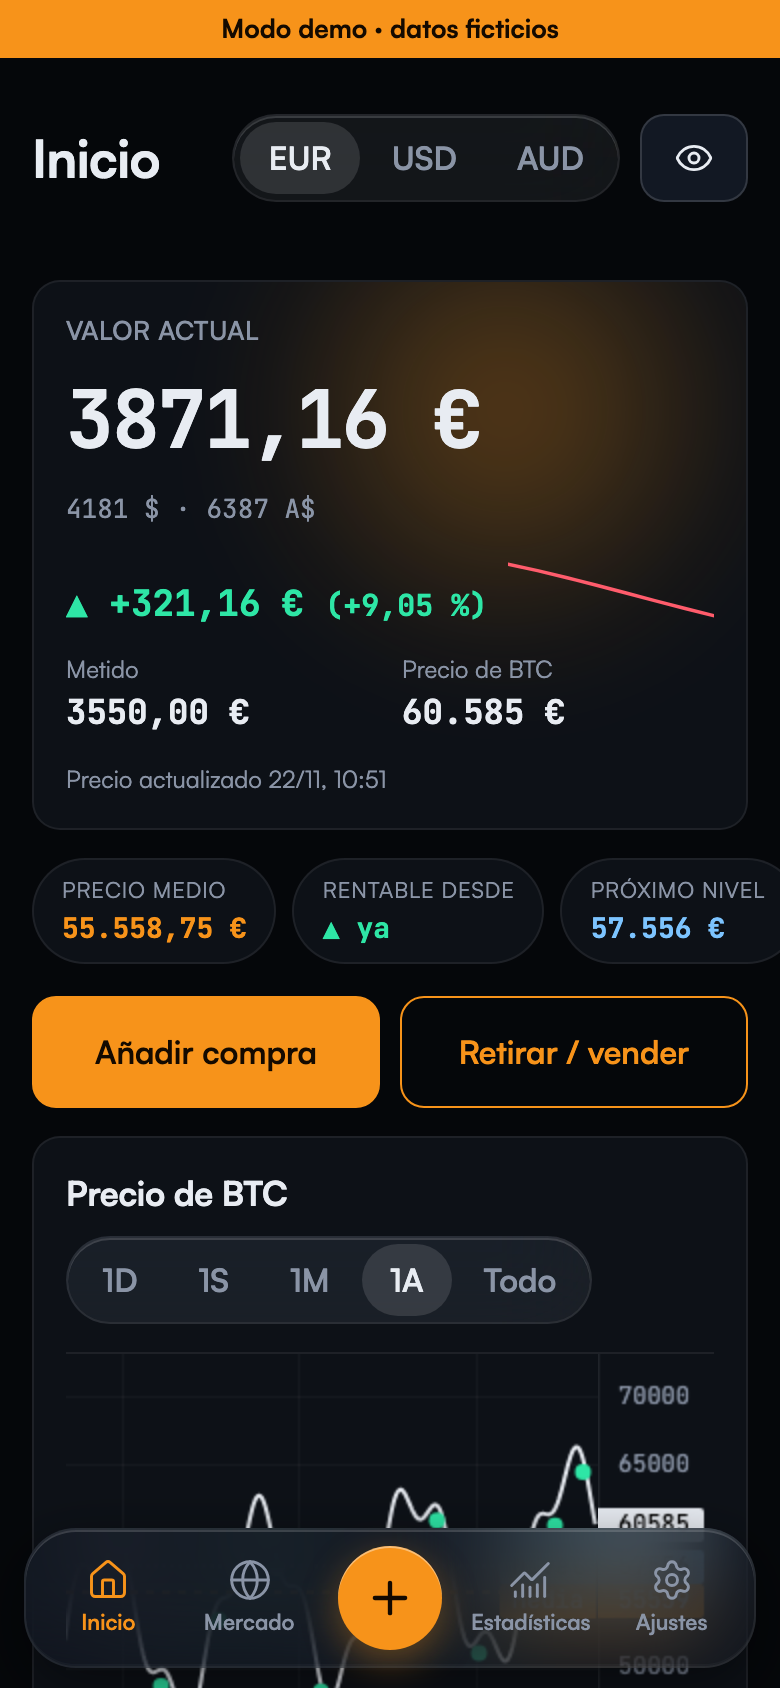
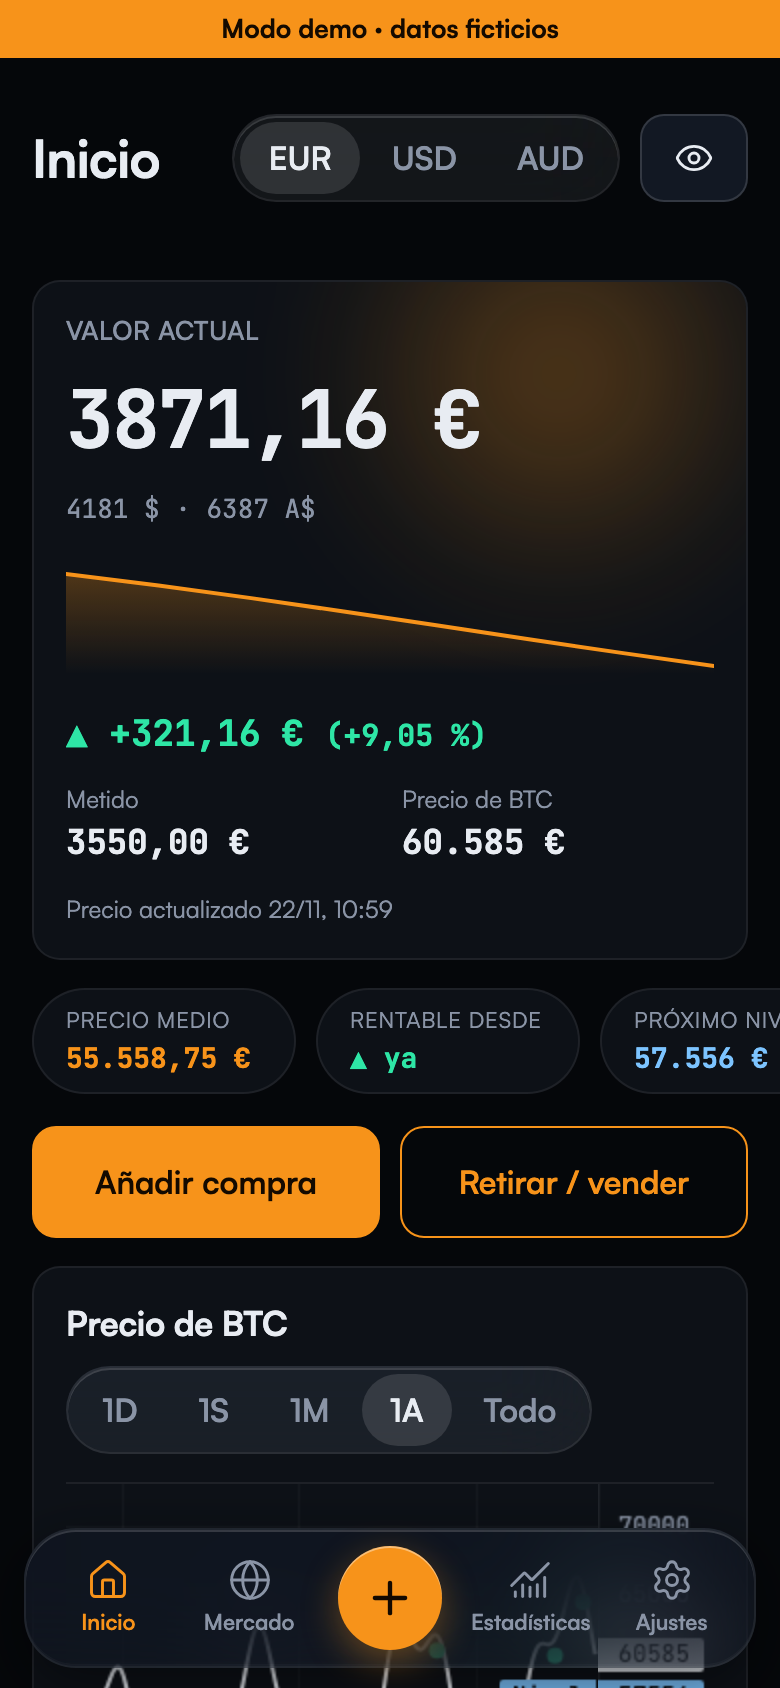
Inicio: mini gráfico a todo el ancho en naranja y chips deslizables con margen

diff --git a/src/components/Sparkline.tsx b/src/components/Sparkline.tsx
@@ -1,17 +1,41 @@
+import { useEffect, useId, useRef, useState } from 'react'
 import { motion, useReducedMotion } from 'motion/react'
 
-/** Mini gráfico del valor en los últimos días; la línea se dibuja al entrar. */
-export default function Sparkline({ valores, ancho = 120, alto = 36 }: { valores: number[]; ancho?: number; alto?: number }) {
+/** Mini gráfico del valor en los últimos días: ocupa todo el ancho, en naranja, y la línea se dibuja al entrar. */
+export default function Sparkline({ valores, alto = 56 }: { valores: number[]; alto?: number }) {
   const reducir = useReducedMotion()
+  const id = useId()
+  const caja = useRef<HTMLDivElement>(null)
+  const [W, setW] = useState(300)
+  // Se dibuja a tamaño real (sin estirar), para que el trazo no se deforme ni se corte.
+  useEffect(() => {
+    const el = caja.current
+    if (!el) return
+    const medir = () => setW(Math.max(100, Math.round(el.getBoundingClientRect().width)))
+    medir()
+    const ro = new ResizeObserver(medir)
+    ro.observe(el)
+    return () => ro.disconnect()
+  }, [])
   if (valores.length < 2) return null
   const min = Math.min(...valores), max = Math.max(...valores)
   const rango = max - min || 1
-  const pts = valores.map((v, i) => `${(i / (valores.length - 1)) * ancho},${alto - 3 - ((v - min) / rango) * (alto - 6)}`)
-  const sube = valores[valores.length - 1] >= valores[0]
+  const pts = valores.map((v, i): [number, number] => [(i / (valores.length - 1)) * W, alto - 4 - ((v - min) / rango) * (alto - 10)])
+  const linea = pts.map(([x, y]) => `${x},${y}`).join(' ')
+  const area = `M0,${alto} L${pts.map(([x, y]) => `${x},${y}`).join(' L')} L${W},${alto} Z`
   return (
-    <svg width={ancho} height={alto} viewBox={`0 0 ${ancho} ${alto}`} role="img" aria-label="Valor de la cartera en los últimos 7 días">
-      <motion.polyline points={pts.join(' ')} fill="none" stroke={sube ? '#2EE6A6' : '#FF5C6C'} strokeWidth="2" strokeLinecap="round" strokeLinejoin="round"
-        initial={{ pathLength: reducir ? 1 : 0 }} animate={{ pathLength: 1 }} transition={{ duration: 0.9, ease: 'easeOut' }} />
-    </svg>
+    <div ref={caja} style={{ width: '100%' }}>
+      <svg width={W} height={alto} viewBox={`0 0 ${W} ${alto}`} role="img" aria-label="Valor de la cartera en los últimos 7 días" style={{ display: 'block' }}>
+        <defs>
+          <linearGradient id={id} x1="0" y1="0" x2="0" y2="1">
+            <stop offset="0" stopColor="#F7931A" stopOpacity="0.28" />
+            <stop offset="1" stopColor="#F7931A" stopOpacity="0" />
+          </linearGradient>
+        </defs>
+        <motion.path d={area} fill={`url(#${id})`} initial={{ opacity: reducir ? 1 : 0 }} animate={{ opacity: 1 }} transition={{ duration: 0.6, delay: reducir ? 0 : 0.5 }} />
+        <motion.polyline points={linea} fill="none" stroke="#F7931A" strokeWidth="2" strokeLinecap="round" strokeLinejoin="round"
+          initial={{ pathLength: reducir ? 1 : 0 }} animate={{ pathLength: 1 }} transition={{ duration: 0.9, ease: 'easeOut' }} />
+      </svg>
+    </div>
   )
 }

diff --git a/src/styles/global.css b/src/styles/global.css
@@ -82,9 +82,10 @@ input[type='range'] { padding: 0; accent-color: var(--accent); }
 .seg button { border: none; background: transparent; min-height: 36px; padding: 0 14px; color: var(--muted); border-radius: var(--pill); font-weight: 600; }
 .seg button[aria-pressed='true'], .seg button[aria-selected='true'] { background: rgba(255, 255, 255, 0.12); color: var(--text); }
 
-.chips { display: flex; gap: 8px; overflow-x: auto; scrollbar-width: none; padding-bottom: 2px; margin: 0 -16px; padding-inline: 16px; }
+.chips { display: flex; gap: 10px; overflow-x: auto; scrollbar-width: none; padding-bottom: 2px; margin: 0 -16px; padding-inline: 16px; scroll-snap-type: x proximity; scroll-padding-inline: 16px; -webkit-overflow-scrolling: touch; overscroll-behavior-x: contain; }
+.chips::after { content: ''; flex: 0 0 6px; } /* margen final: el último chip no pega con el borde */
 .chips::-webkit-scrollbar { display: none; }
-.chip { flex: 0 0 auto; background: var(--card); border: 1px solid var(--border); border-radius: var(--pill); padding: 8px 14px; display: flex; flex-direction: column; gap: 2px; min-width: 120px; }
+.chip { flex: 0 0 auto; scroll-snap-align: start; white-space: nowrap; background: var(--card); border: 1px solid var(--border); border-radius: var(--pill); padding: 8px 16px; display: flex; flex-direction: column; gap: 2px; min-width: 132px; }
 .chip .k { font-size: 11px; color: var(--muted); letter-spacing: 0.04em; text-transform: uppercase; }
 .chip .v { font-family: var(--mono); font-size: 14px; font-weight: 600; font-variant-numeric: tabular-nums; }
 .opt { flex: 0 0 auto; min-height: 40px; padding: 0 14px; border-radius: var(--pill); background: var(--card); border: 1px solid var(--border-strong); color: var(--muted); }

diff --git a/src/pages/Inicio.tsx b/src/pages/Inicio.tsx
@@ -64,12 +64,10 @@ export default function Inicio() {
             <span key={m}>{i > 0 && ' · '}{v.privado ? OCULTO : dinero(convertir(res?.valorHoy ?? 0, moneda, m, precios ?? { EUR: 1, USD: 1, AUD: 1 }), m, 0)}</span>
           ))}
         </div>
+        {res && !v.privado && <div style={{ margin: '4px 0' }}><Sparkline valores={spark} /></div>}
         {res && (
-          <div className="row between" style={{ alignItems: 'flex-end' }}>
-            <div className={`mid ${claseSigno(res.ganancia)}`}>
-              {flecha(res.ganancia)} {v.$s(res.ganancia)} <span className="num" style={{ fontSize: 15 }}>({v.pct(res.rentabilidad)})</span>
-            </div>
-            {!v.privado && <Sparkline valores={spark} />}
+          <div className={`mid ${claseSigno(res.ganancia)}`}>
+            {flecha(res.ganancia)} {v.$s(res.ganancia)} <span className="num" style={{ fontSize: 15 }}>({v.pct(res.rentabilidad)})</span>
           </div>
         )}
         <div className="grid2">
